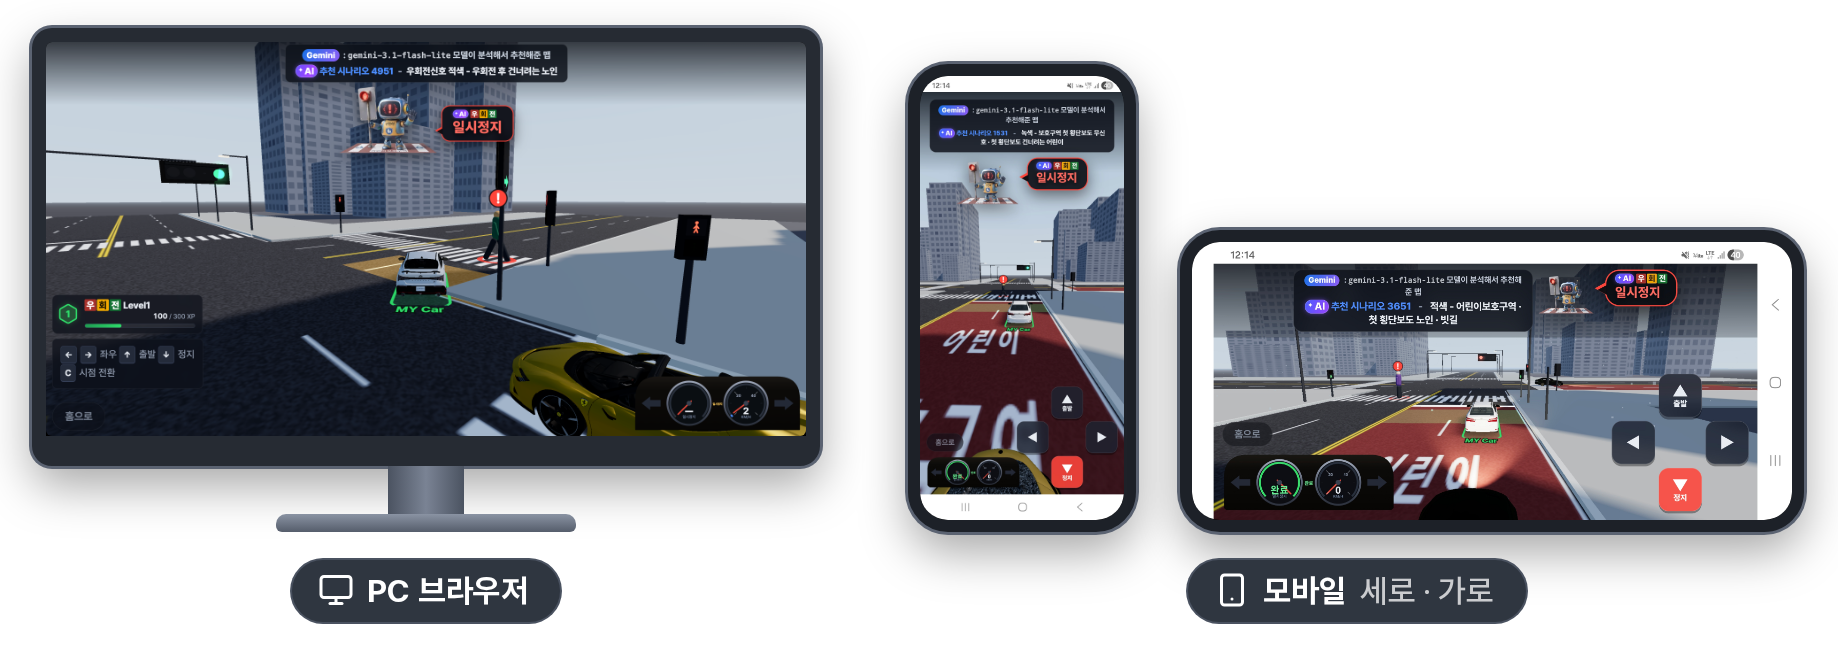
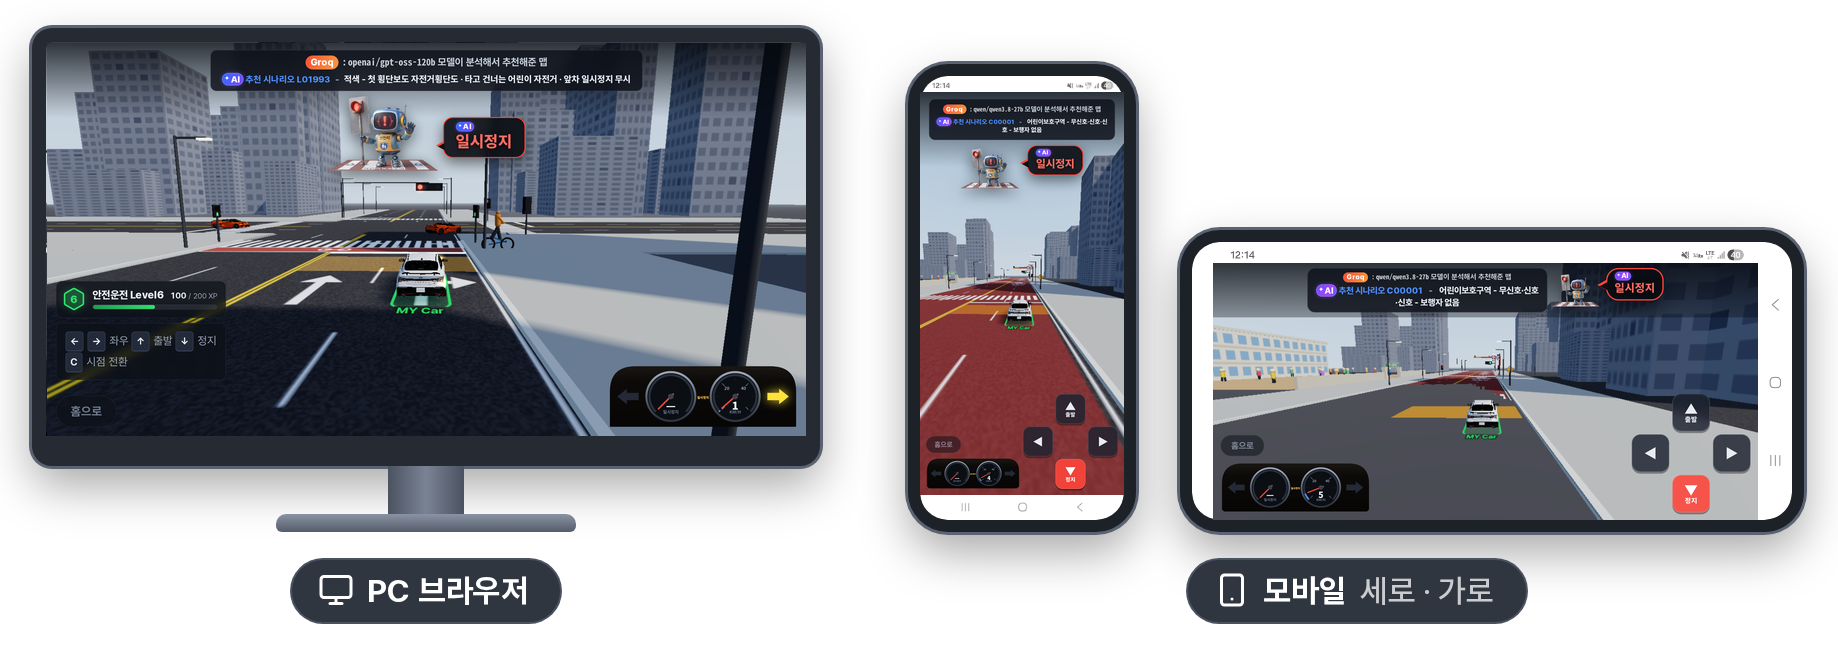
기기 목업 안의 화면을 지금 화면으로 다시 찍는다
모니터와 휴대폰 안에 든 화면이 이름을 바꾸기 전 것이라 '우회전 Level1'
과 말풍선의 옛 배지가 남아 있었다. 원본이 없어 기기 테두리와 상태 표시줄
은 그대로 두고 게임 화면 셋만 새로 찍어 갈아 끼웠다. 휴대폰 둘은 터치
기기로 찍어 화면의 화살표 버튼이 보인다 - 장표가 그렇게 말하고 있다.

포트폴리오 11장(PC와 모바일 모두 지원) 22장(온라인 연습)을 다시 뽑고,
README 의 넘어가는 장표도 그 두 칸만 다시 만들었다.

Changed region(s): [[0.0, 0.0619, 0.4652, 0.6811], [0.6513, 0.4025, 0.9614, 0.805], [0.4962, 0.1548, 0.6202, 0.774]]

diff --git a/CHANGELOG.md b/CHANGELOG.md
@@ -73,6 +73,10 @@
 
 - **포트폴리오의 화면 캡처 열 장을 지금 화면으로 다시 찍었습니다** — 첫 화면 · 습관 분석 · 맵 추천 · 주행 중 말풍선 · 보행자 느낌표 · PERFECT 결과 · VIOLATION 결과 · 우회전 방법 · 어린이보호구역 운전 방법 · About 입니다. 이름을 바꾸기 전에 찍은 것이라 화면 안에 옛 이름이 그대로 남아 있었고, 첫 화면은 그새 디자인도 바뀌어 있었습니다.
   - 결과 화면 둘은 **AI 코칭이 도착한 뒤**에 찍었습니다 — '분석 중…' 인 채로 찍으면 장표가 말하는 것이 화면에 없습니다. PERFECT 는 자율 주행이 아니라 **직접 몰아서** 받았습니다 (자율 주행 결과에는 "AI 가 분석을 하지 않습니다" 라고 뜹니다).
+- **기기 목업 그림 안의 화면도 지금 화면으로 갈아 끼웠습니다** (`docs/platforms.png` — 포트폴리오 11장 · 22장). 모니터와 휴대폰 안에 든 화면이 이름을 바꾸기 전에 찍은 것이라 **`우회전 Level1`** 과 말풍선의 옛 배지가 그대로 남아 있었습니다. 원본 파일이 없어, 기기 테두리 · 상태 표시줄 · 아래 버튼은 그대로 두고 **게임 화면 셋(PC · 휴대폰 세로 · 휴대폰 가로)만** 새로 찍어 넣었습니다.
+  - 휴대폰 둘은 터치 기기로 찍어 **화면의 화살표 버튼**이 보입니다 — 장표가 "모바일은 화면의 화살표 버튼으로 운전합니다" 라고 말하고 있어서입니다.
+  - README 의 저절로 넘어가는 장표(`docs/portfolio-slideshow.webp`)도 그 두 칸만 다시 만들었습니다 — 판 번호 딱지는 예전 칸에서 옮겨 붙였습니다.
+
 - **포트폴리오 마지막 장의 제목을 '만든 사람과 라이선스' → '만든 사람'** 으로 줄였습니다 (사용자가 정했습니다).
 
 - **포트폴리오 넘겨 보기 페이지의 파일 이름도 바꿨습니다 — `AI_safeturn_portfolio.html` → `AI_safelevelup_portfolio.html`.** 주소가 `safedrive.ai.kr` 이 된 마당에 파일 이름만 옛 이름이라 어색했습니다. **옛 주소로 들어와도 새 파일로 넘겨줍니다**(`vercel.json` 의 301) — 지금까지 건네 둔 링크가 끊기지 않습니다.
